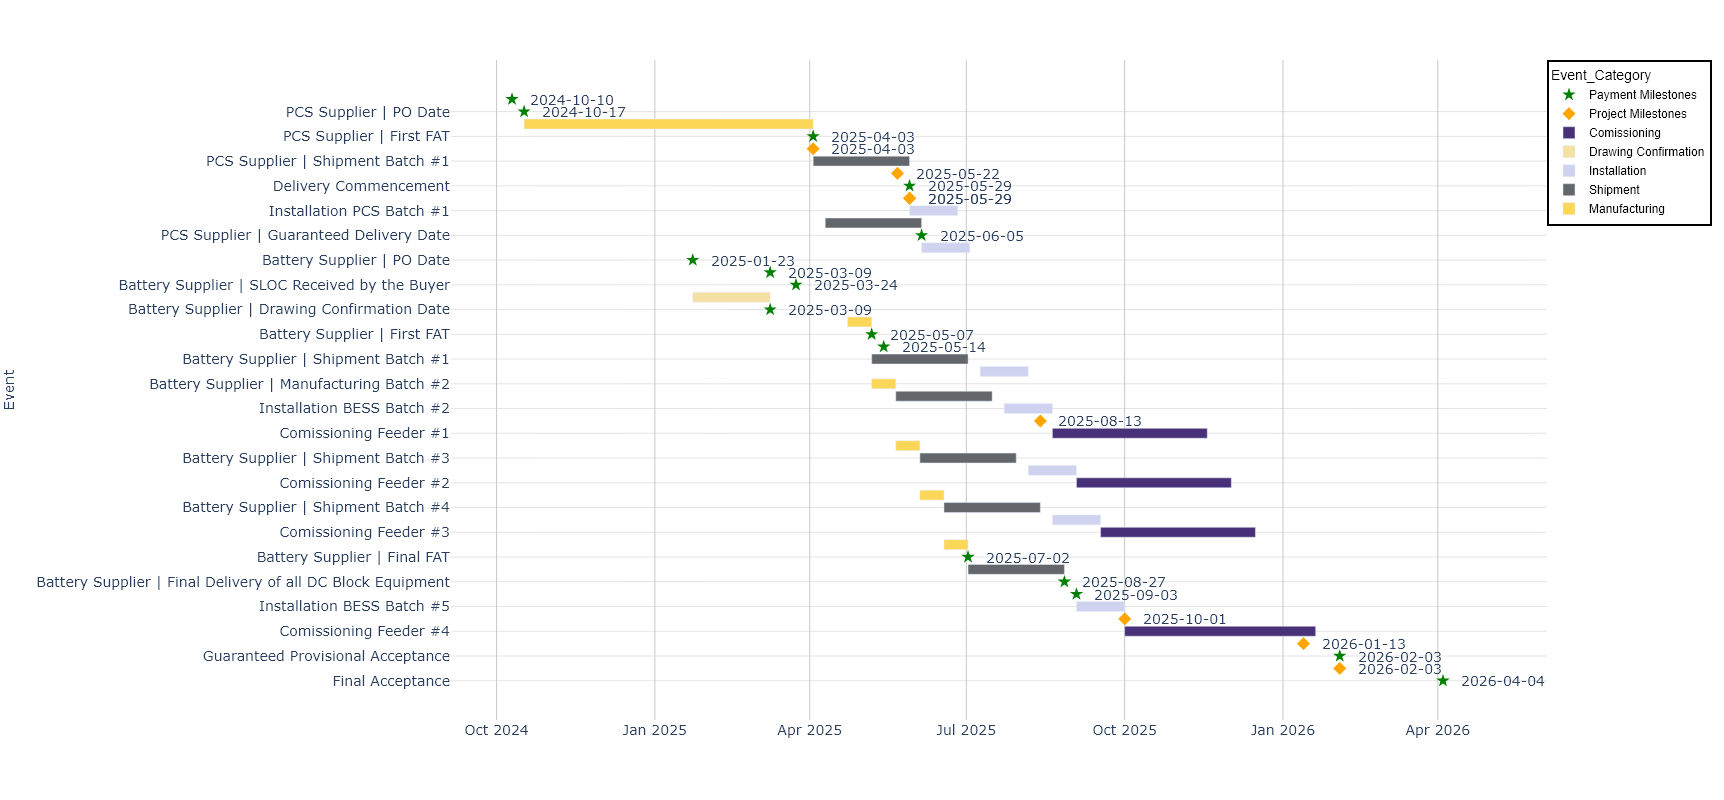
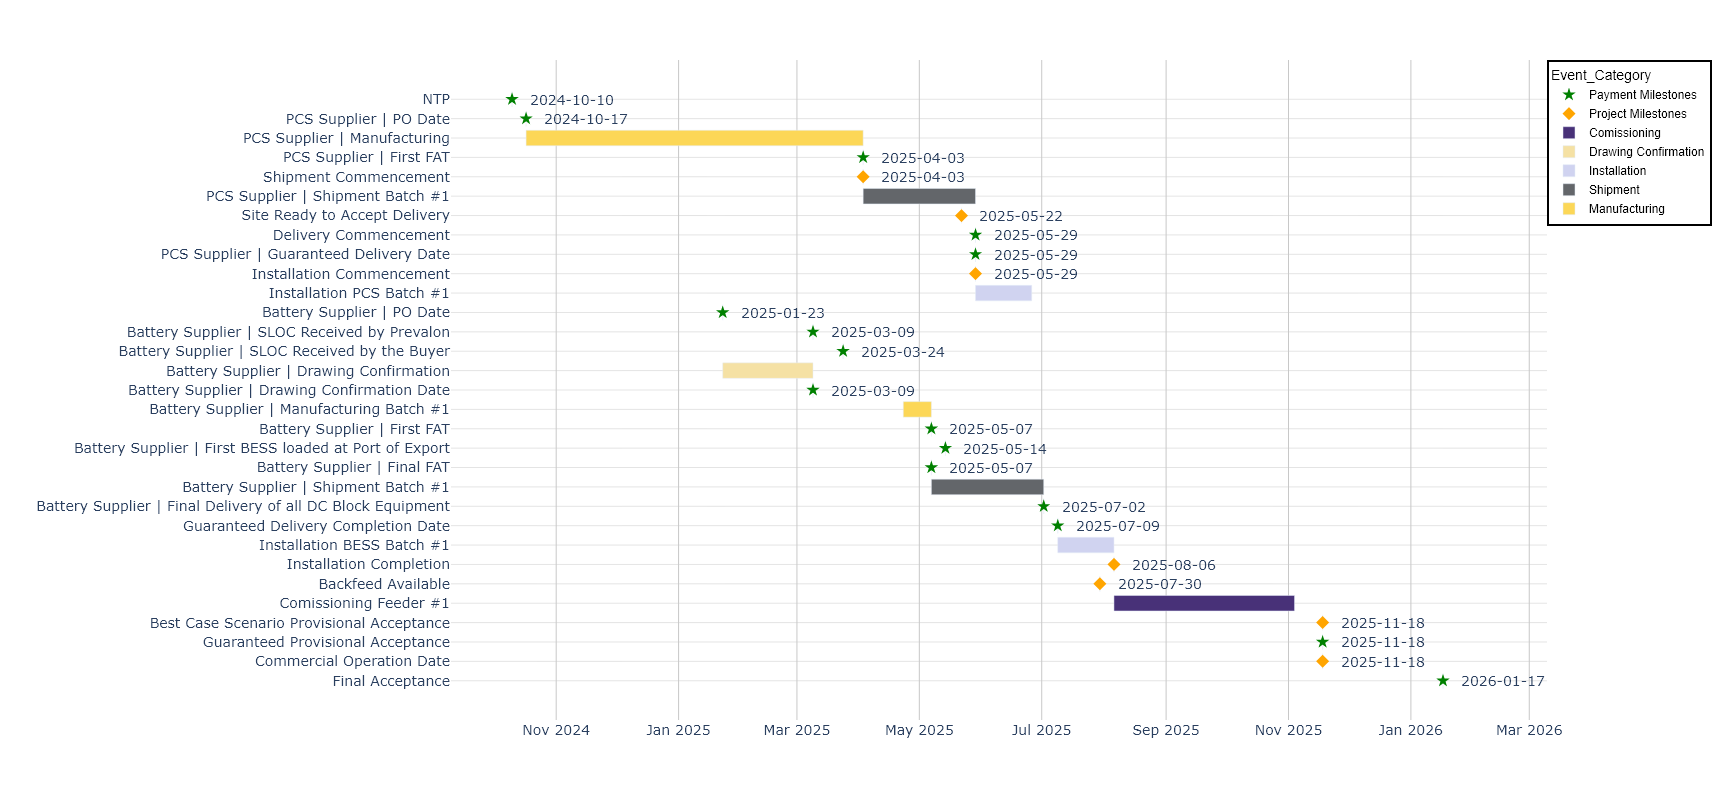
Added Scheduler

diff --git a/src/gantt_chart_schedule.py b/src/gantt_chart_schedule.py
@@ -445,6 +445,10 @@ def scheduler(ntp, intended_cod, number_of_PCS, number_of_containers, scope):
             marker=dict(size=10, color='orange', symbol='diamond'), 
             showlegend=True,  
             ))
+        
+        fig.update_layout(
+            yaxis_title=""  # Set y-axis title to an empty string
+            )
             
         fig.add_trace(go.Scatter(
             x=df_3[df_3['Event'].isin(paym_milestones_combined)]["Start_Date"],
@@ -711,10 +715,10 @@ def scheduler(ntp, intended_cod, number_of_PCS, number_of_containers, scope):
     fig.write_image("schedule_gantt.png", height = 800, width=1724)
 
     # Months from NTP to COD
-    months_ntp_cod = str(months_diff(cod, ntp)) + " months"
+    months_ntp_cod = str(months_diff(cod, ntp))
 
     # Months from FAT to COD
-    months_fat_cod = str(months_diff(cod, first_fat)) + " months"
+    months_fat_cod = str(months_diff(cod, first_fat))
 
     proj_schedule_stored = df_3.to_dict()
 
@@ -735,59 +739,72 @@ def scheduler(ntp, intended_cod, number_of_PCS, number_of_containers, scope):
     # Critical Durations Table
     df_critical_durations = pd.DataFrame([])
 
-    durations_list = ['Total Project Duration', 'PCS Supplier Drawing Confirmation, Manufacturing and FAT', 'Battery Supplier Drawing Confirmation, Manufacturing and FAT', 'Total Transportation', 'Installation', 'Commissioning and Testing']
-    durations_desc = ["From " + str(df_3.loc[0, "Event"]) + " to " + str(df_3.loc[len(df_3)-1, "Event"]), 'From PCS Supplier PO Date to FAT', 'From Battery Supplier PO Date to FAT','From First Shipment Leaving the Factory to Last Delivery to site', \
+    durations_list = ['Total Project Duration', 'Project Duration until PA', 'Amount of Calendar Degradation of Batteries until PA', \
+        'From PCS Supplier PO Date to FAT', 'From Battery Supplier PO Date to FAT', 'Total Transportation', 'Installation', 'Commissioning and Testing']
+    durations_desc = ["From " + str(df_3.loc[0, "Event"]) + " to " + str(df_3.loc[len(df_3)-1, "Event"]), \
+                      'From Notice to Proceed to PA', 'From FAT to PA', 'PCS Supplier Drawing Confirmation, Manufacturing and FAT', \
+                      'Battery Supplier Drawing Confirmation, Manufacturing and FAT','From First Shipment Leaving the Factory to Last Delivery to site', \
                       'From Installation Commencement to Installation Completion', 'From Installation Completion to PA']
-    duration_weeks = []
+    duration_months = []
     if "Supplier" in scope:
         durations_list.remove("Installation")
         durations_list.remove("Commissioning and Testing")
+        durations_list.remove("Project Duration until PA")
+        durations_list.remove("Amount of Calendar Degradation of Batteries until PA")
 
         durations_desc.remove('From Installation Commencement to Installation Completion')
         durations_desc.remove('From Installation Completion to PA')
+        durations_desc.remove('From Notice to Proceed to PA')        
+        durations_desc.remove('From FAT to PA')
 
         durations_desc[0] = "From PO Date" + " to " + str(df_3.loc[len(df_3)-1, "Event"])
 
-        duration_weeks.append(math.ceil((df_milestones.loc[len(df_milestones)-1, "Date"] - df_milestones.loc[0, "Date"]).days/7))
-        duration_weeks.append(math.ceil(((df_milestones.loc[df_milestones["Event"].str.contains("First FAT")]['Date'] - df_milestones.loc[0, "Date"]).iloc[0].days)/7))
+        duration_months.append(math.ceil((df_milestones.loc[len(df_milestones)-1, "Date"] - df_milestones.loc[0, "Date"]).days/30.5))
+        duration_months.append(math.ceil(((df_milestones.loc[df_milestones["Event"].str.contains("First FAT")]['Date'] - df_milestones.loc[0, "Date"]).iloc[0].days)/30.5))
 
         if "Battery" in scope:
-            durations_list.remove("PCS Supplier Drawing Confirmation, Manufacturing and FAT")
-            durations_desc.remove('From PCS Supplier PO Date to FAT')
+            durations_desc.remove("PCS Supplier Drawing Confirmation, Manufacturing and FAT")
+            durations_list.remove('From PCS Supplier PO Date to FAT')
 
-            duration_weeks.append(math.ceil(((df_3.loc[df_3["Event"].str.contains("Final Delivery of all DC Block Equipment")]['End_Date'].iloc[0] - df_3.loc[df_3["Event"].str.contains("Shipment Batch #1")]['Start_Date'].iloc[0]).days)/7))
+            duration_months.append(math.ceil(((df_3.loc[df_3["Event"].str.contains("Final Delivery of all DC Block Equipment")]['End_Date'].iloc[0] - df_3.loc[df_3["Event"].str.contains("Shipment Batch #1")]['Start_Date'].iloc[0]).days)/30.5))
         if "PCS" in scope:
-            durations_list.remove("Battery Supplier Drawing Confirmation, Manufacturing and FAT")
-            durations_desc.remove('From Battery Supplier PO Date to FAT')
+            durations_desc.remove("Battery Supplier Drawing Confirmation, Manufacturing and FAT")
+            durations_list.remove('From Battery Supplier PO Date to FAT')
 
-            duration_weeks.append(math.ceil(((df_3.loc[df_3["Event"].str.contains("Guaranteed Delivery")]['End_Date'].iloc[0] - df_3.loc[df_3["Event"].str.contains("Shipment Batch #1")]['Start_Date'].iloc[0]).days)/7))
+            duration_months.append(math.ceil(((df_3.loc[df_3["Event"].str.contains("Guaranteed Delivery")]['End_Date'].iloc[0] - df_3.loc[df_3["Event"].str.contains("Shipment Batch #1")]['Start_Date'].iloc[0]).days)/30.5))
 
     elif "Customer" in scope:
-        durations_list.remove('PCS Supplier Drawing Confirmation, Manufacturing and FAT')
-        durations_list.remove('Battery Supplier Drawing Confirmation, Manufacturing and FAT')
-
-        durations_desc.remove('From PCS Supplier PO Date to FAT')
-        durations_desc.remove('From Battery Supplier PO Date to FAT')
+        durations_desc.remove('PCS Supplier Drawing Confirmation, Manufacturing and FAT')
+        durations_desc.remove('Battery Supplier Drawing Confirmation, Manufacturing and FAT')
+        durations_desc.remove('From Notice to Proceed to PA')        
+        durations_desc.remove('From FAT to PA')
         
+        durations_list.remove('From PCS Supplier PO Date to FAT')
+        durations_list.remove('From Battery Supplier PO Date to FAT')
+        durations_list.remove("Project Duration until PA")
+        durations_list.remove('Amount of Calendar Degradation of Batteries until PA')
+
         durations_list[1] = "Delivery"
         durations_desc[1] = "From Delivery Commencement to Guaranteed Delivery Date"
         
-        duration_weeks.append(math.ceil((df_milestones.loc[len(df_milestones)-1, "Date"] - df_milestones.loc[0, "Date"]).days/7))
-        duration_weeks.append(math.ceil(((df_milestones.loc[df_milestones["Event"].str.contains("Guaranteed Delivery Completion Date")]['Date'].iloc[0] - df_milestones.loc[df_milestones["Event"].str.contains("Delivery Commencement")]['Date'].iloc[0]).days)/7))
-        duration_weeks.append(math.ceil(((df_milestones.loc[df_milestones["Event"].str.contains("Installation Completion")]['Date'].iloc[0] - df_milestones.loc[df_milestones["Event"].str.contains("Installation Commencement")]['Date'].iloc[0]).days)/7))
-        duration_weeks.append(math.ceil(((df_milestones.loc[df_milestones["Event"].str.contains("Provisional Acceptance")]['Date'].iloc[0] - df_milestones.loc[df_milestones["Event"].str.contains("Installation Completion")]['Date'].iloc[0]).days)/7))
-    
+        duration_months.append(math.ceil((df_milestones.loc[len(df_milestones)-1, "Date"] - df_milestones.loc[0, "Date"]).days/30.5))
+        duration_months.append(math.ceil(((df_milestones.loc[df_milestones["Event"].str.contains("Guaranteed Delivery Completion Date")]['Date'].iloc[0] - df_milestones.loc[df_milestones["Event"].str.contains("Delivery Commencement")]['Date'].iloc[0]).days)/30.5))
+        duration_months.append(math.ceil(((df_milestones.loc[df_milestones["Event"].str.contains("Installation Completion")]['Date'].iloc[0] - df_milestones.loc[df_milestones["Event"].str.contains("Installation Commencement")]['Date'].iloc[0]).days)/30.5))
+        duration_months.append(math.ceil(((df_milestones.loc[df_milestones["Event"].str.contains("Provisional Acceptance")]['Date'].iloc[0] - df_milestones.loc[df_milestones["Event"].str.contains("Installation Completion")]['Date'].iloc[0]).days)/30.5))
+
     else:
-        duration_weeks.append(math.ceil((df_milestones.loc[len(df_milestones)-1, "Date"] - df_milestones.loc[0, "Date"]).days/7))
-        duration_weeks.append(math.ceil(((df_milestones.loc[df_milestones["Event"] == "PCS Supplier | First FAT"]['Date'].iloc[0] - df_milestones.loc[df_milestones["Event"] == "PCS Supplier | PO Date"]['Date'].iloc[0]).days)/7))
-        duration_weeks.append(math.ceil(((df_milestones.loc[df_milestones["Event"] == "Battery Supplier | First FAT"]['Date'].iloc[0] - df_milestones.loc[df_milestones["Event"] == "Battery Supplier | PO Date"]['Date'].iloc[0]).days)/7))
-        duration_weeks.append(math.ceil(((df_3.loc[df_3["Event"] == "Guaranteed Delivery Completion Date"]['Start_Date'].iloc[0] - df_3.loc[df_3["Event"] == "PCS Supplier | Shipment Batch #1"]['Start_Date'].iloc[0]).days)/7))
-        duration_weeks.append(math.ceil(((df_milestones.loc[df_milestones["Event"] == "Installation Completion"]['Date'].iloc[0] - df_milestones.loc[df_milestones["Event"] == "Installation Commencement"]['Date'].iloc[0]).days)/7))
-        duration_weeks.append(math.ceil(((df_milestones.loc[df_milestones["Event"] == "Guaranteed Provisional Acceptance"]['Date'].iloc[0] - df_milestones.loc[df_milestones["Event"] == "Installation Completion"]['Date'].iloc[0]).days)/7))
+        duration_months.append(math.ceil((df_milestones.loc[len(df_milestones)-1, "Date"] - df_milestones.loc[0, "Date"]).days/30.5))
+        duration_months.append(months_ntp_cod)
+        duration_months.append(months_fat_cod)
+        duration_months.append(math.ceil(((df_milestones.loc[df_milestones["Event"] == "PCS Supplier | First FAT"]['Date'].iloc[0] - df_milestones.loc[df_milestones["Event"] == "PCS Supplier | PO Date"]['Date'].iloc[0]).days)/30.5))
+        duration_months.append(math.ceil(((df_milestones.loc[df_milestones["Event"] == "Battery Supplier | First FAT"]['Date'].iloc[0] - df_milestones.loc[df_milestones["Event"] == "Battery Supplier | PO Date"]['Date'].iloc[0]).days)/30.5))
+        duration_months.append(math.ceil(((df_3.loc[df_3["Event"] == "Guaranteed Delivery Completion Date"]['Start_Date'].iloc[0] - df_3.loc[df_3["Event"] == "PCS Supplier | Shipment Batch #1"]['Start_Date'].iloc[0]).days)/30.5))
+        duration_months.append(math.ceil(((df_milestones.loc[df_milestones["Event"] == "Installation Completion"]['Date'].iloc[0] - df_milestones.loc[df_milestones["Event"] == "Installation Commencement"]['Date'].iloc[0]).days)/30.5))
+        duration_months.append(math.ceil(((df_milestones.loc[df_milestones["Event"] == "Guaranteed Provisional Acceptance"]['Date'].iloc[0] - df_milestones.loc[df_milestones["Event"] == "Installation Completion"]['Date'].iloc[0]).days)/30.5))
 
 
     df_critical_durations['Critical Durations'] = durations_list
-    df_critical_durations['Weeks'] = duration_weeks
+    df_critical_durations['Months'] = duration_months
     df_critical_durations['Description'] = durations_desc
 
     # Float Table 
@@ -796,12 +813,6 @@ def scheduler(ntp, intended_cod, number_of_PCS, number_of_containers, scope):
     df_floats['Float Description'] = ['Float for Commissioning and Testing', 'Float for Guaranteed Delivery Date', 'Float for PCS Supplier PO', 'Total Project Schedule Float']
     df_floats['Float Duration (weeks)'] = [float_comm_duration, float_ship_duration, float_po_date, total_schedule_float]
 
-    # Project Overview Table 
-    df_proj_overview = pd.DataFrame([])
-
-    df_proj_overview['Event Time Window'] = ['Months from NTP to PA', 'Months from Battery First FAT to PA']
-    df_proj_overview['Duration'] = [months_ntp_cod, months_fat_cod]
-    
     stored_fig_data = fig
     df_milestones_stored = df_milestones.to_dict()
     df_critical_durations_stored = df_critical_durations.to_dict()
@@ -810,7 +821,6 @@ def scheduler(ntp, intended_cod, number_of_PCS, number_of_containers, scope):
     df_milestones = table_format(df_milestones)
     df_critical_durations = table_format(df_critical_durations)
     df_floats = table_format(df_floats)
-    df_proj_overview = table_format(df_proj_overview)
 
 
     # Assumptions Table
@@ -836,7 +846,7 @@ def scheduler(ntp, intended_cod, number_of_PCS, number_of_containers, scope):
                                " •	Site is ready to accept delivery 1 week before first batch of equipment is delivered.", \
                                " •	First batch of PCSs is delivered 4 weeks before first batch of batteries.", \
                                " •	Commissioning is performed by Feeder (this is not visible in customer schedule).", \
-                               " •	Backfeed is available 1 week before first feeder installation is complete.", \
+                               " •	Backfeed is available 1 week before first feeder installation is complete", \
                                " •	Earlier commissioning start is when first feeder is installed.", \
                                " •	Minimum commissioning time per feeder 90 days. (8 PCS & 32 Containers).", \
                                " •	Total commissioning time will scale as defined in the cost sheet. (Maximum project size 2000 MWh requires 139 days)", \
@@ -849,4 +859,4 @@ def scheduler(ntp, intended_cod, number_of_PCS, number_of_containers, scope):
     df_project_assump = table_format(df_project_assump)
 
     return fig, stored_fig_data, cod.date(), proj_schedule_stored, df_milestones, df_milestones_stored, df_critical_durations, \
-        df_critical_durations_stored, df_floats, df_proj_overview, df_supplier_assump, df_project_assump
+        df_critical_durations_stored, df_floats, df_supplier_assump, df_project_assump

diff --git a/src/pages/Proj_scheduler.py b/src/pages/Proj_scheduler.py
@@ -18,7 +18,7 @@ dash.register_page(__name__, name = "Project Scheduling Tool", order=2)
 # Define the layout of the website
 layout = dbc.Container([
     dbc.Row([
-        dbc.Col(html.H2("Project Scheduling Tool - Do not use; Dev under Progress", 
+        dbc.Col(html.H2("Project Scheduling Tool", 
                         className='text-center text-primary-emphasis'),
                         xs=12, sm=12, md=12, lg=6, xl=6)
     ], justify='around', align='center'),
@@ -106,13 +106,7 @@ layout = dbc.Container([
                   ]),
 
             html.Br(),
-            
-            html.H6("Project Overview", className="mb-4 strong"),
-
-            dbc.Container(
-                 [
-                      html.P(id='df_proj_overview'), 
-                  ]),
+        
             ], xs=12, sm=12, md=12, lg=2, xl=2),
 
     ], justify='center', align='top'),
@@ -158,6 +152,9 @@ layout = dbc.Container([
             ], xs=12, sm=12, md=12, lg=4, xl=4),
     ], justify='center', align='top'),
 
+    html.Br(),
+    html.Br(),
+
 ], fluid=True), 
 
 @dash.callback(
@@ -170,7 +167,6 @@ layout = dbc.Container([
     Output("df_critical_durations", "children"),
     Output("stored_df_critical_durations", "data"),
     Output("df_floats", "children"),
-    Output("df_proj_overview", "children"),
     Output("df_supplier_assump", "children"),
     Output("df_project_assump", "children"),    
     Output("btn_schedule", "n_clicks"),
@@ -185,11 +181,11 @@ layout = dbc.Container([
 def gantt_chart(n_clicks, ntp, intended_cod, number_of_PCS, number_of_containers, scope):
     if n_clicks:
         fig, stored_fig, cod_date, schedule_excel, df_milestones, stored_df_milestones, \
-            df_critical_durations, stored_df_critical_durations, df_floats, df_proj_overview, \
+            df_critical_durations, stored_df_critical_durations, df_floats, \
                 df_supplier_assump, df_project_assump = scheduler(ntp, intended_cod, number_of_PCS, number_of_containers, scope)
         
         return fig, stored_fig, cod_date, schedule_excel, df_milestones, stored_df_milestones, \
-            df_critical_durations, stored_df_critical_durations, df_floats, df_proj_overview, df_supplier_assump, df_project_assump, 0
+            df_critical_durations, stored_df_critical_durations, df_floats, df_supplier_assump, df_project_assump, 0
     else:
         raise PreventUpdate
 
